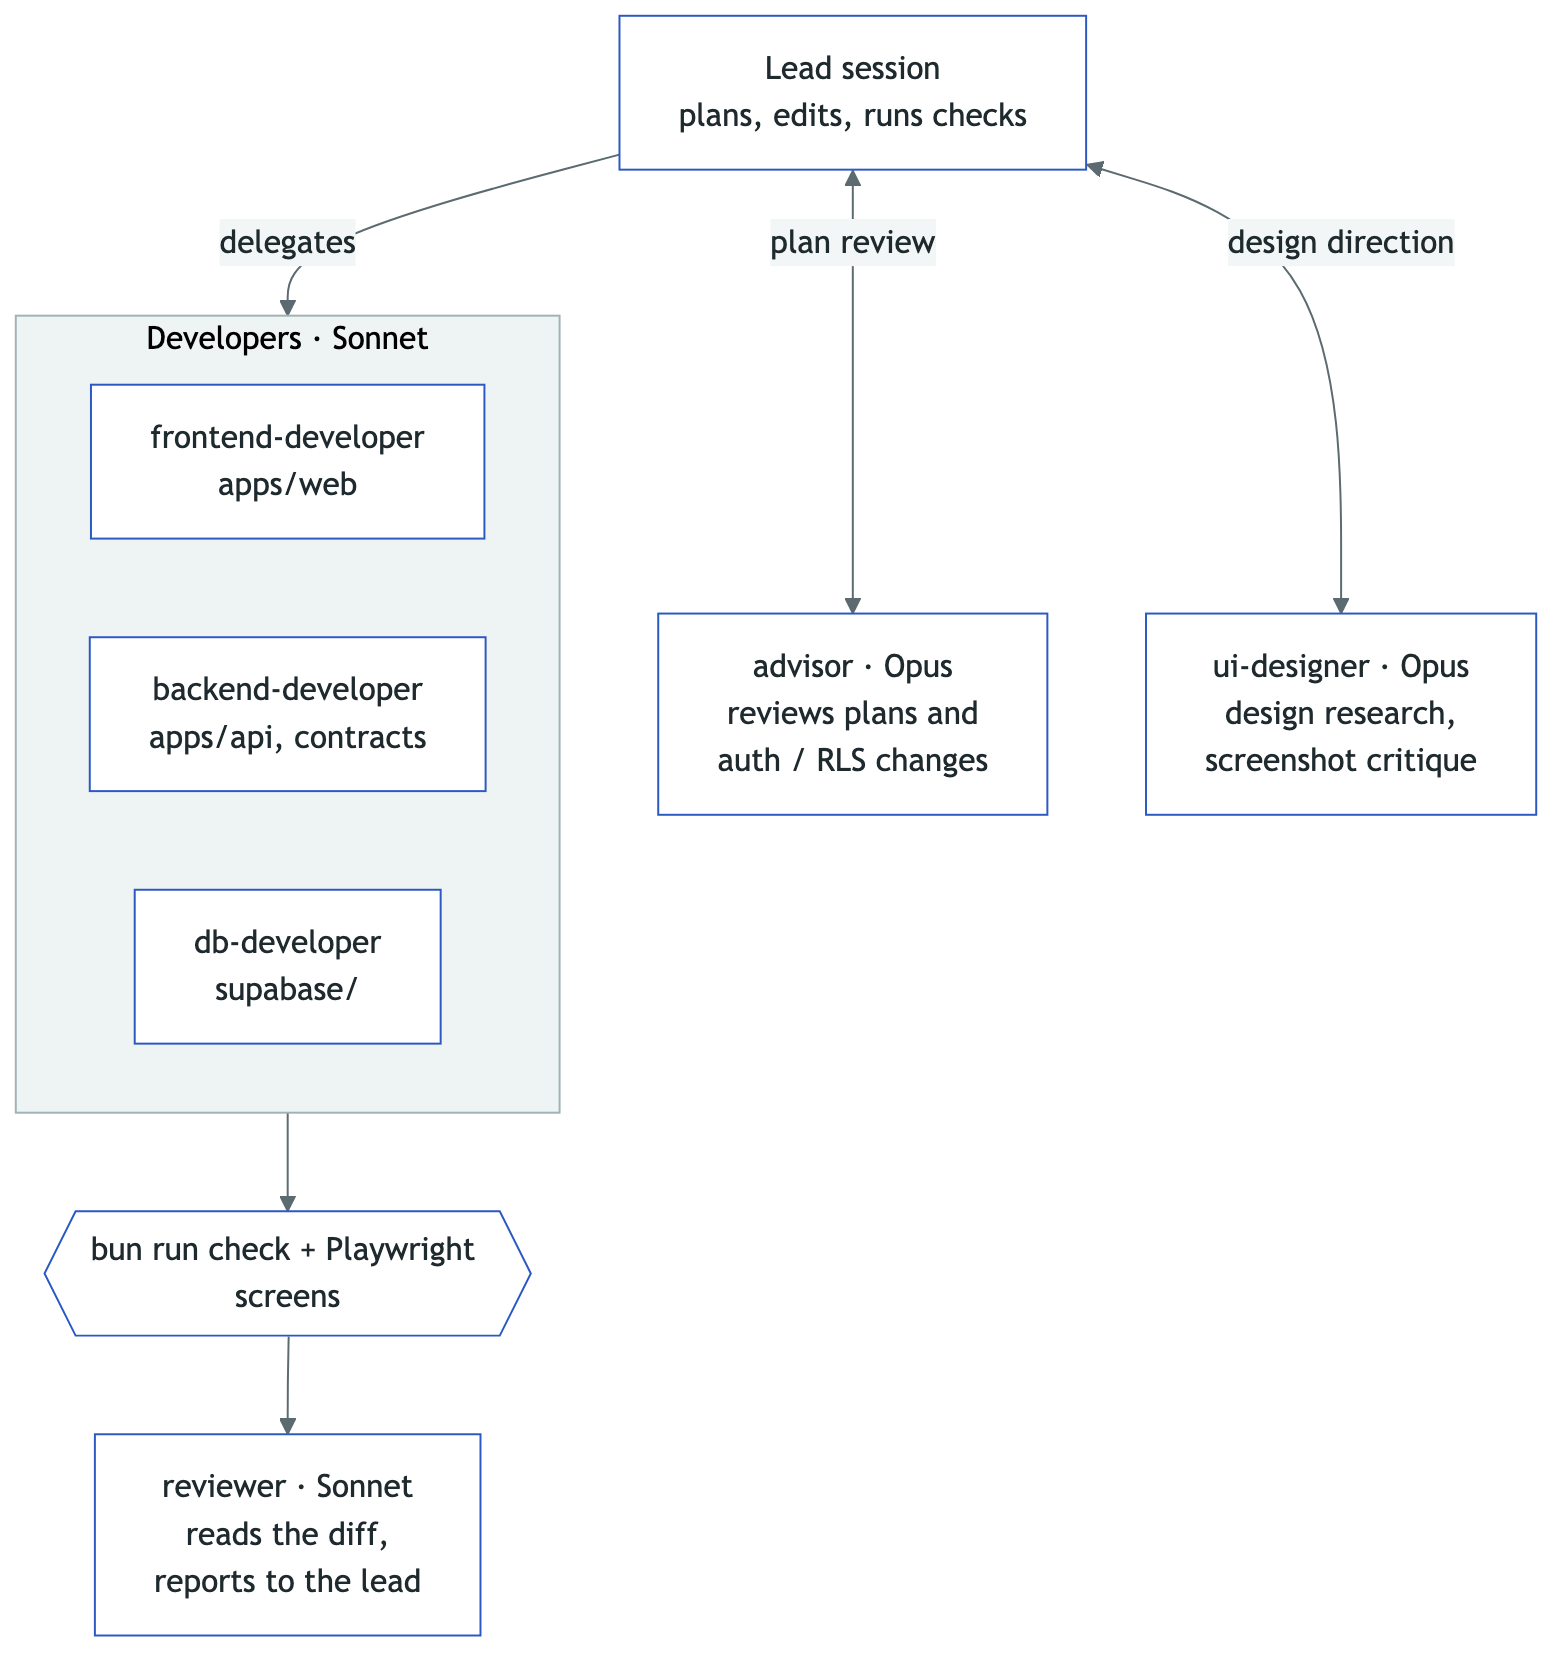
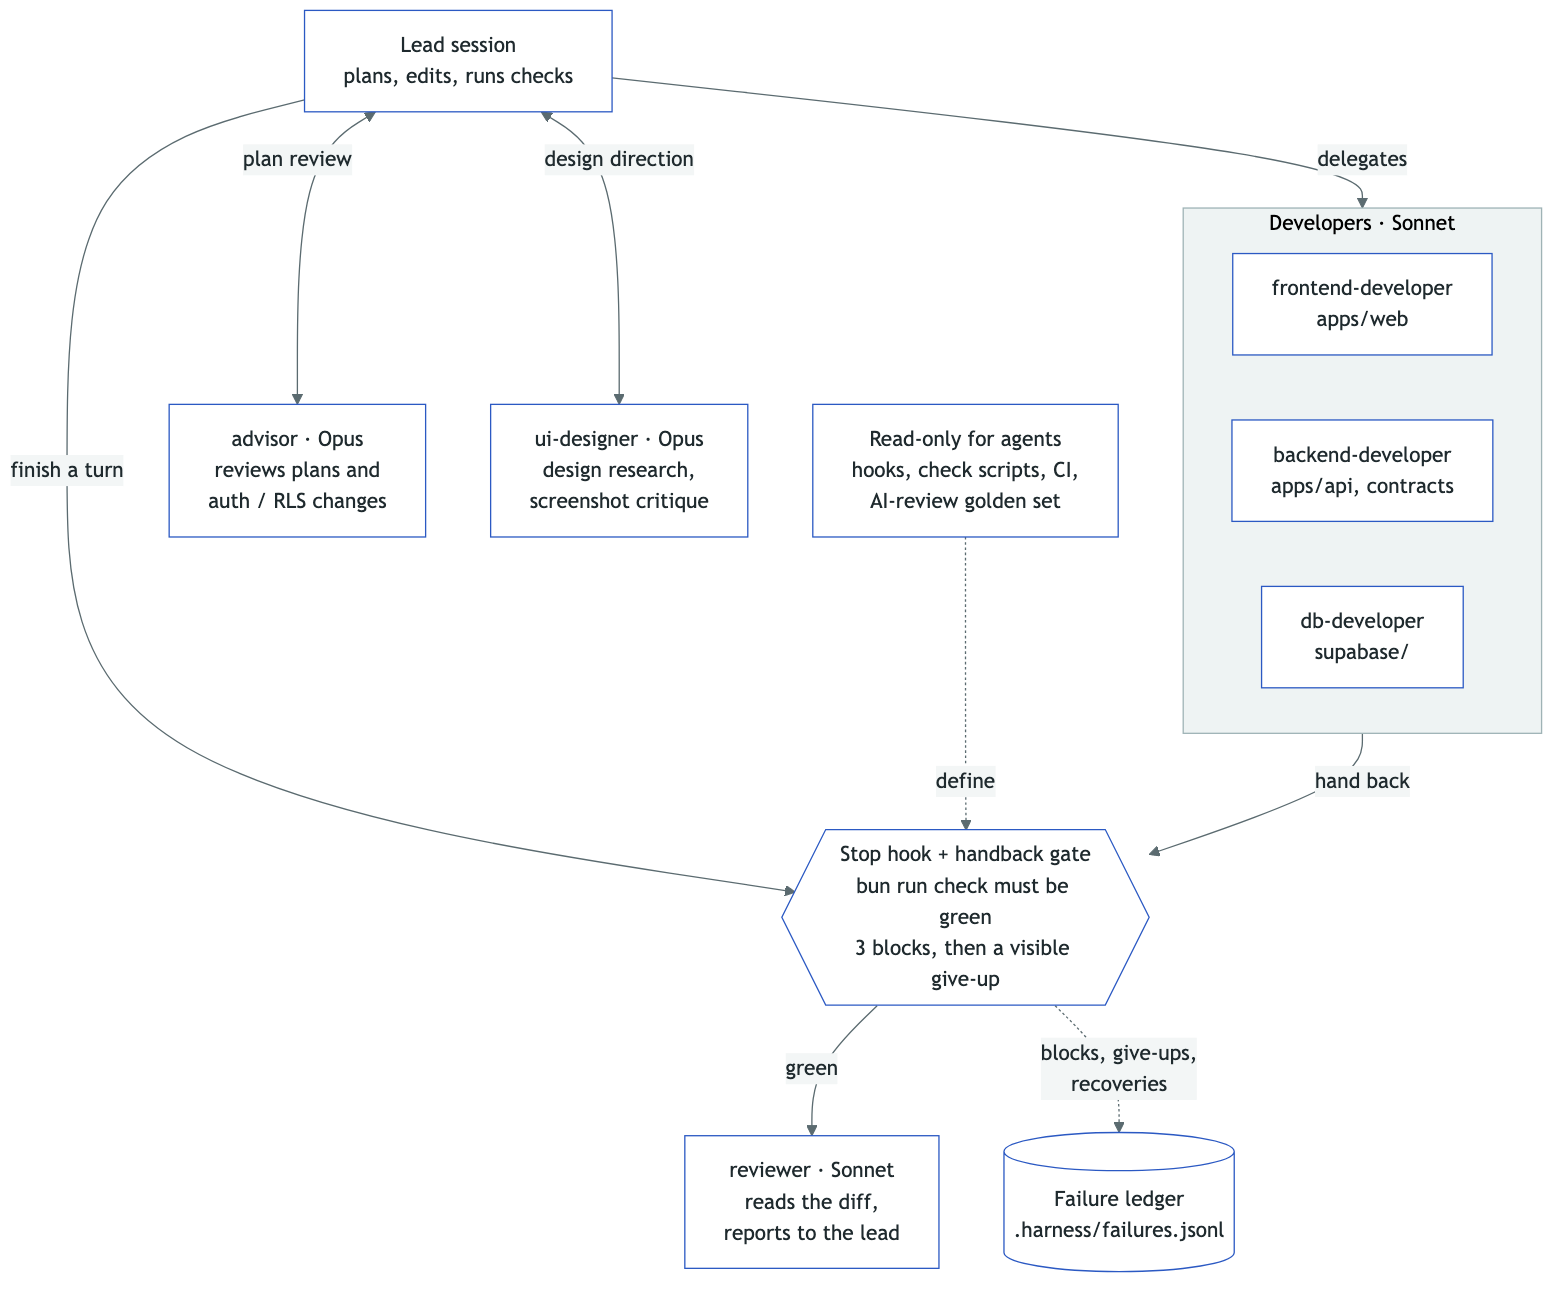
README: describe the check gates, read-only graders, ledger and golden set
The "How it was built" section and the agents diagram still showed a single
hook running check. They now show the Stop and handback gates (3 blocks,
then a visible give-up), the graders being read-only for agents, and the
failure ledger. The Checks section mentions untested.sh and the hand-run
AI-review golden set.

diff --git a/README.md b/README.md
@@ -43,9 +43,11 @@ Briefly checks client campaign briefs before work starts. Paste a brief or uploa
 
 ## How it was built
 
-Briefly is built with Claude Code. A lead session plans and edits; scoped subagents (in `.claude/agents`) each own one part of the stack, and read-only agents review. A hook runs `bun run check` before any turn can finish.
+Briefly is built with Claude Code. A lead session plans and edits; scoped subagents (in `.claude/agents`) each own one part of the stack, and read-only agents review. A hook runs `bun run check` before any turn can finish, and before a worktree agent can hand back its report; it blocks at most 3 times, then lets the turn end with a visible "not done" warning.
 
-![Agent workflow: lead, advisor, ui-designer, developers, checks and reviewer](docs/diagrams/agents.png)
+The graders are read-only for agents: the hooks, the `check` scripts, CI and the AI-review golden set are deny-listed in `.claude/settings.json`, so an agent can't pass a check by editing it. Every block, give-up and recovery is logged to a local failure ledger (`.harness/failures.jsonl`, summarised by `scripts/ledger-report.sh`), which is the data any later change to the harness has to start from.
+
+![Agent workflow: lead, advisor, ui-designer, developers, the check gate, reviewer, failure ledger and read-only graders](docs/diagrams/agents.png)
 
 ## Running locally
 
@@ -63,10 +65,12 @@ The API also runs in a container: `docker compose up --build api`, then `curl lo
 ## Checks
 
 ```sh
-bun run check          # file sizes, RLS coverage, then lint, typecheck, test and build for every project
+bun run check          # file sizes, RLS coverage, untested domain code, then lint, typecheck, test and build for every project
 bunx supabase test db  # pgTAP: RLS and workflow tests against a local database
 bun run visual         # Playwright: every screen at 400px and 1280px, with axe and overflow checks
 ```
+
+The AI review has a golden set: 10 synthetic briefs with expected verdicts per area, in `apps/api/scripts/review-eval/`. `bun run --cwd apps/api eval:review` runs them through the real model (keys from `.env`) and compares the verdicts with the saved baseline for that model; it runs by hand only, never in CI or `check`.
 
 The Playwright run needs no Okta or API: sessions are seeded and `/api` is mocked in the browser. The screenshots above come from `README_SHOTS=1 bunx playwright test e2e/readme.spec.ts` in `apps/web`; the diagrams are rendered from `docs/diagrams/*.mmd`:
 
